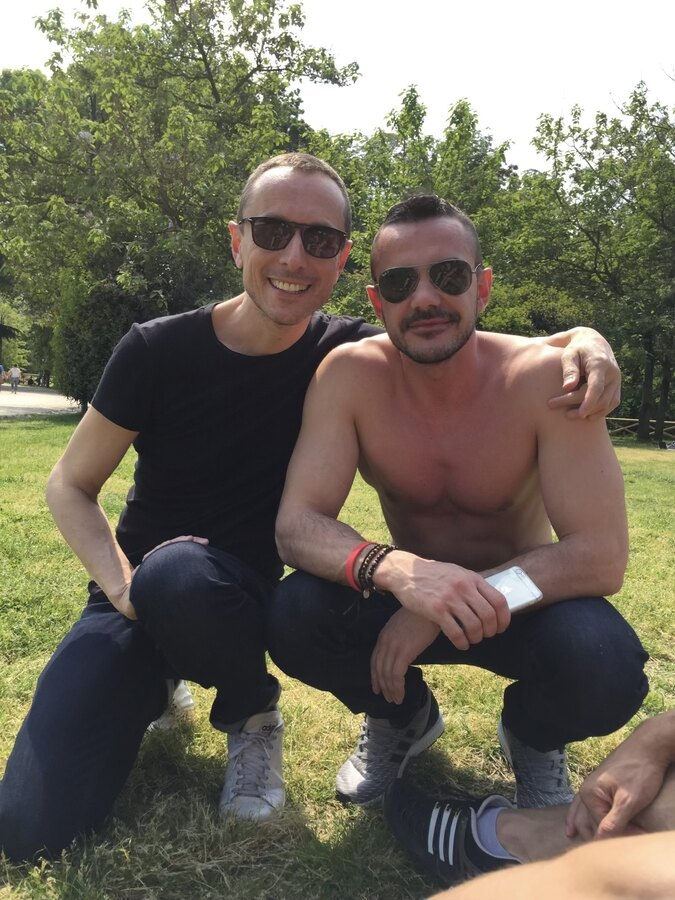
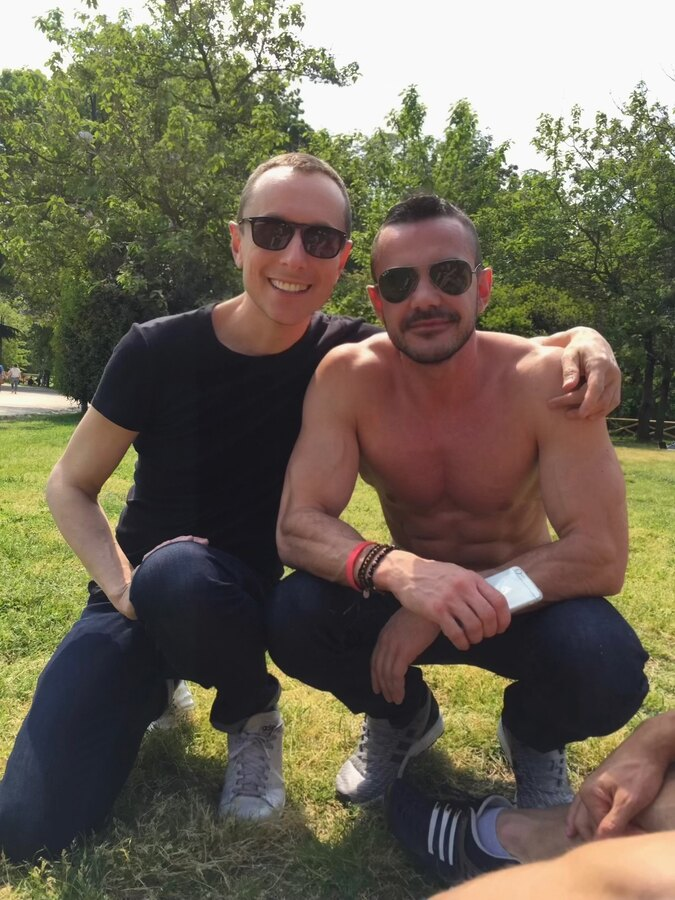
Foto aggiornate: Parco Sempione 2016 + ritratto Roberto

diff --git a/en.html b/en.html
@@ -256,6 +256,10 @@
             <figcaption>Roberto.</figcaption>
           </figure>
           <figure>
+            <img src="roberto-volto.jpg" alt="Roberto, close up" loading="lazy">
+            <figcaption>Roberto, up close.</figcaption>
+          </figure>
+          <figure>
             <img src="roberto-libreria.jpg" alt="Roberto among his books" loading="lazy">
             <figcaption>Among his books.</figcaption>
           </figure>

diff --git a/index.html b/index.html
@@ -258,6 +258,10 @@
             <figcaption>Roberto.</figcaption>
           </figure>
           <figure>
+            <img src="roberto-volto.jpg" alt="Roberto, primo piano" loading="lazy">
+            <figcaption>Roberto, da vicino.</figcaption>
+          </figure>
+          <figure>
             <img src="roberto-libreria.jpg" alt="Roberto tra i suoi libri" loading="lazy">
             <figcaption>Tra i suoi libri.</figcaption>
           </figure>